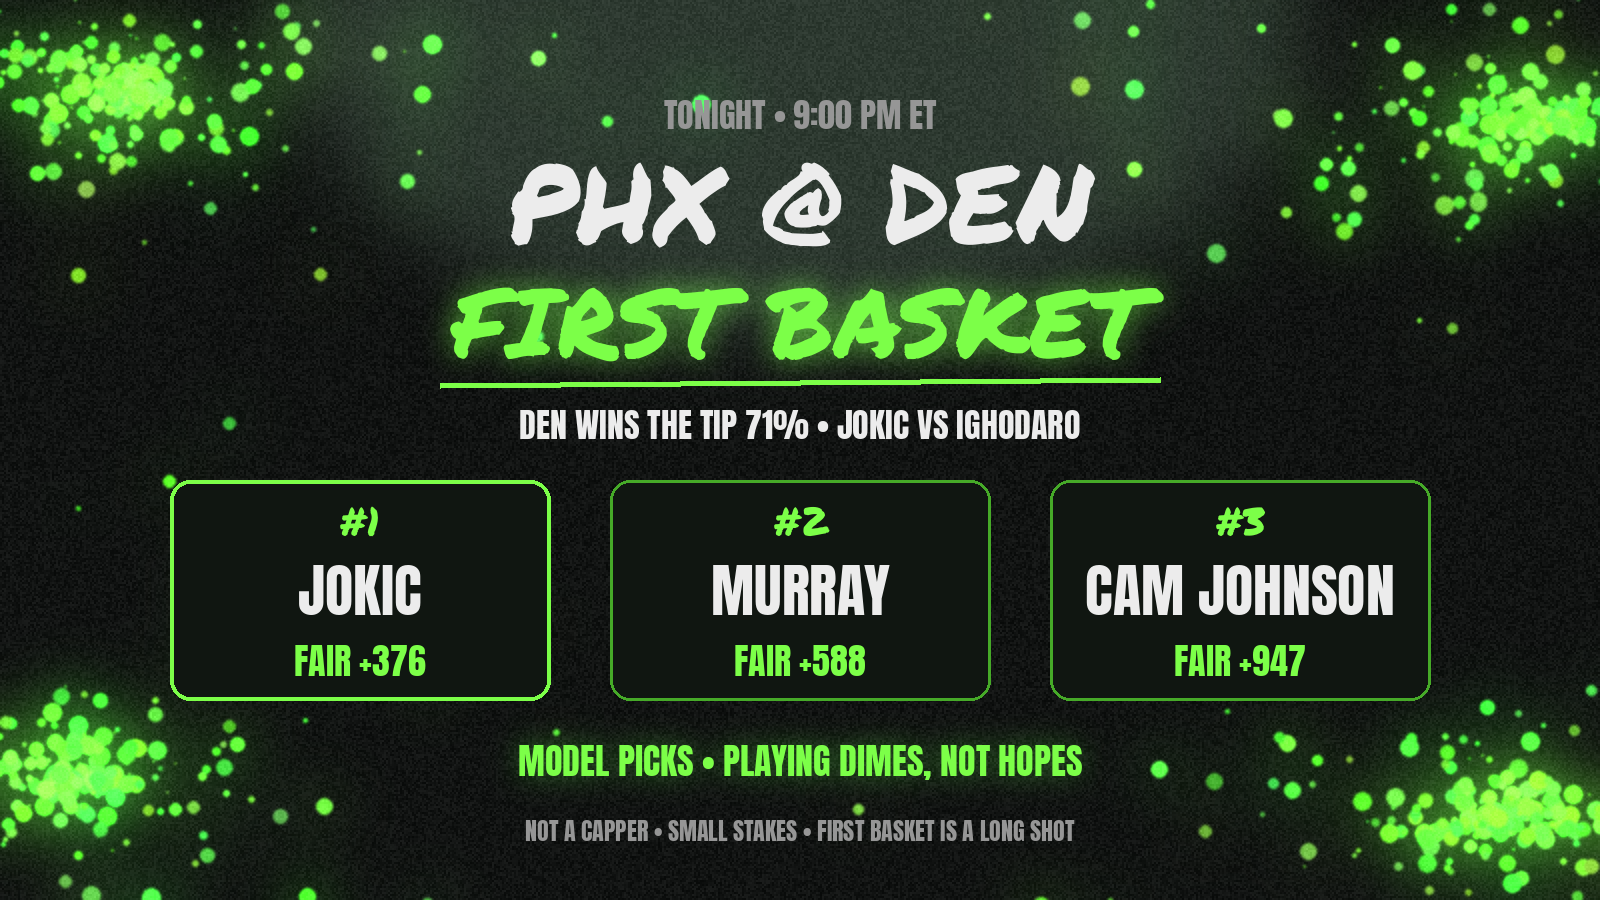
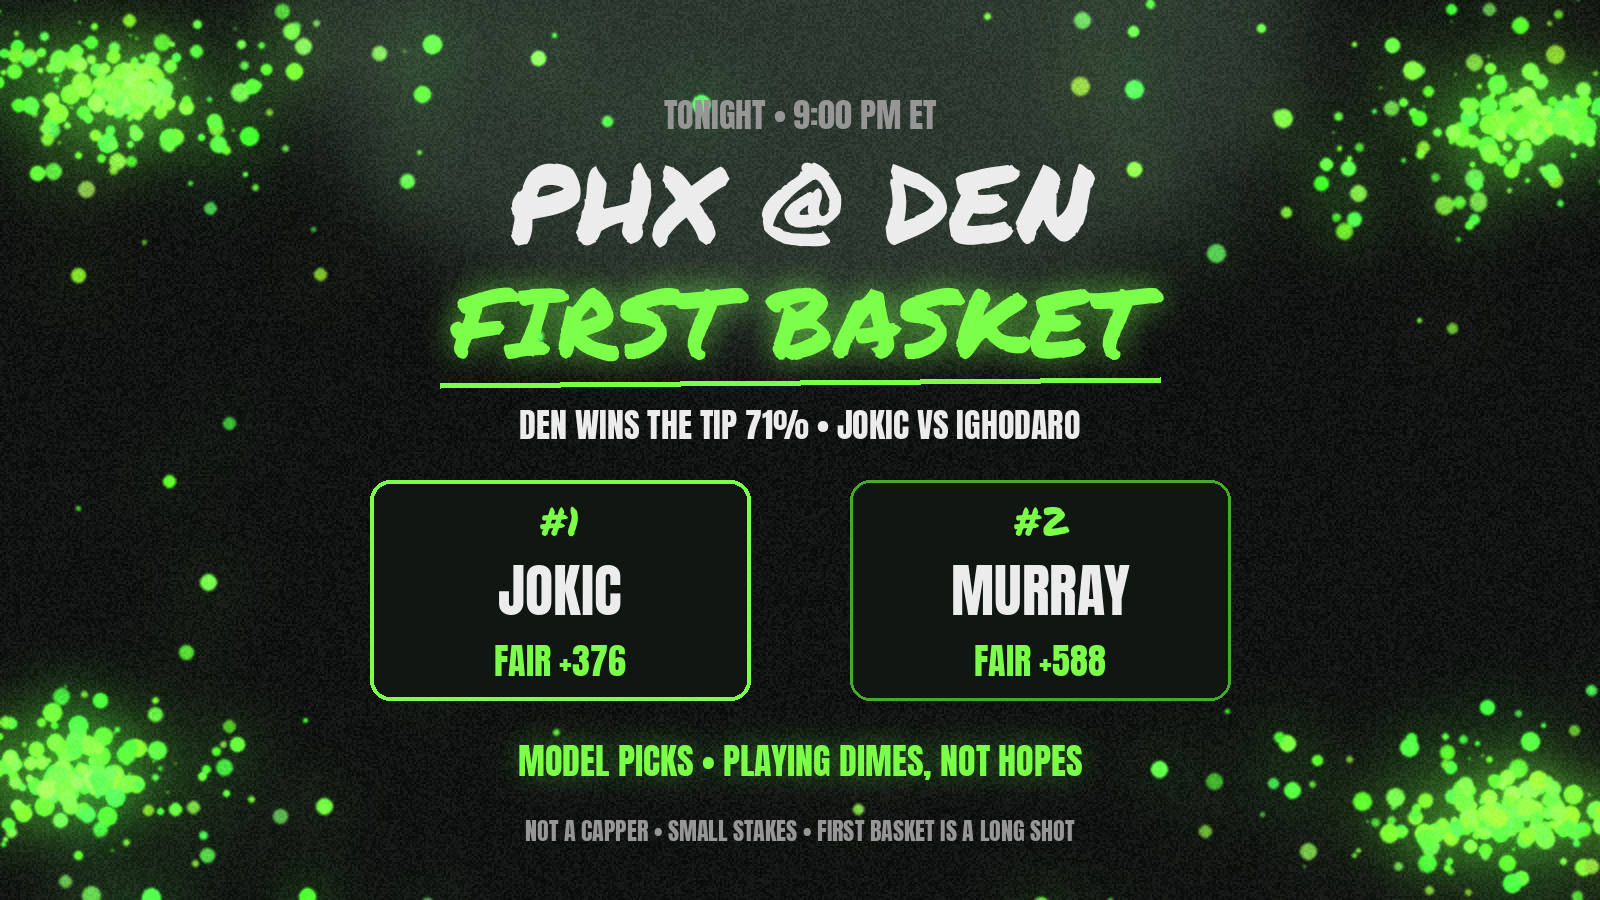
X DEN graphic: Jokic and Murray only
Claude-Session: https://claude.ai/code/session_01TQWUAJSyeczoh1eaRjRwmB

diff --git a/posts/media/2026-11-16-x/make_xden.py b/posts/media/2026-11-16-x/make_xden.py
@@ -34,9 +34,9 @@ T((800,200),'PHX @ DEN','permanent-marker.ttf',110,WH)
 T((800,320),'FIRST BASKET','permanent-marker.ttf',96,G,glow_c=(60,140,30))
 d=ImageDraw.Draw(img); d.line((440,385,1160,379),fill=G,width=6)
 T((800,425),'DEN WINS THE TIP 71% • JOKIC VS IGHODARO','anton.ttf',34,WH)
-picks=[('#1','JOKIC','+376'),('#2','MURRAY','+588'),('#3','CAM JOHNSON','+947')]
+picks=[('#1','JOKIC','+376'),('#2','MURRAY','+588')]
 for i,(r,n,o) in enumerate(picks):
-    cx=360+i*440; d=ImageDraw.Draw(img)
+    cx=560+i*480; d=ImageDraw.Draw(img)
     d.rounded_rectangle((cx-190,480,cx+190,700),radius=20,fill=(16,22,17),outline=G if i==0 else GD,width=4 if i==0 else 3)
     T((cx,520),r,'permanent-marker.ttf',40,G)
     T((cx,590),n,'anton.ttf',58,WH)
